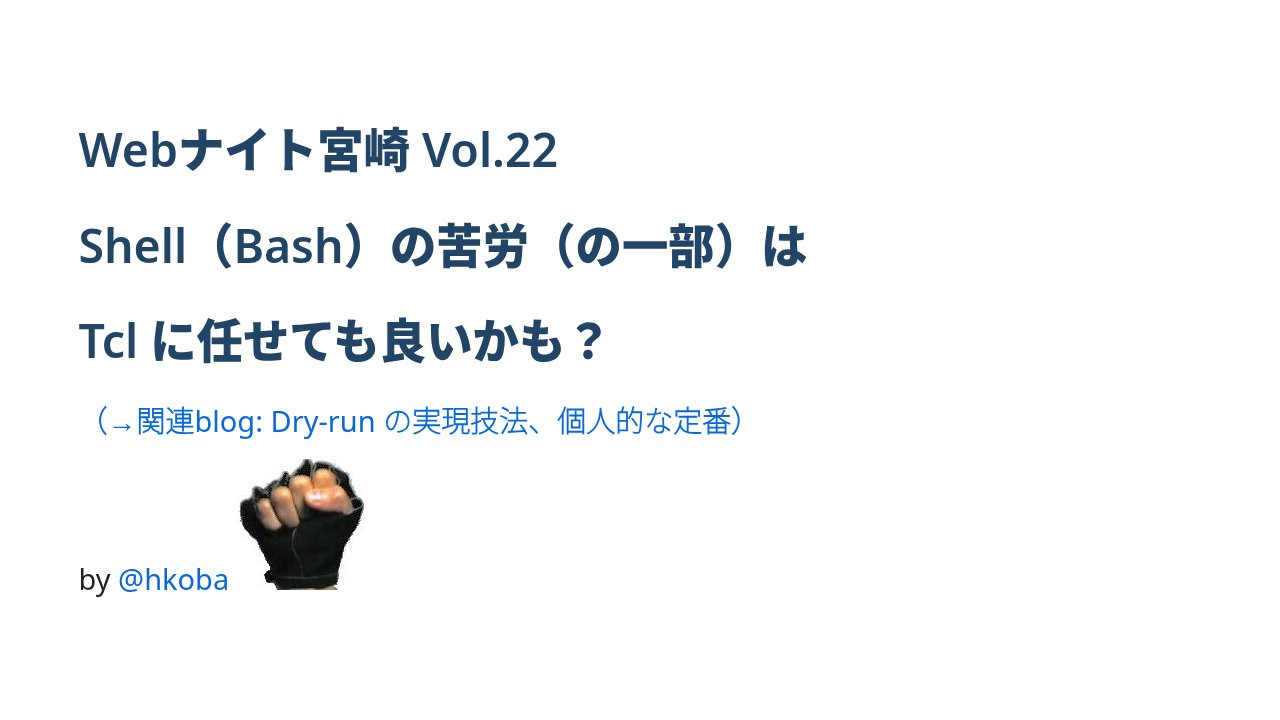
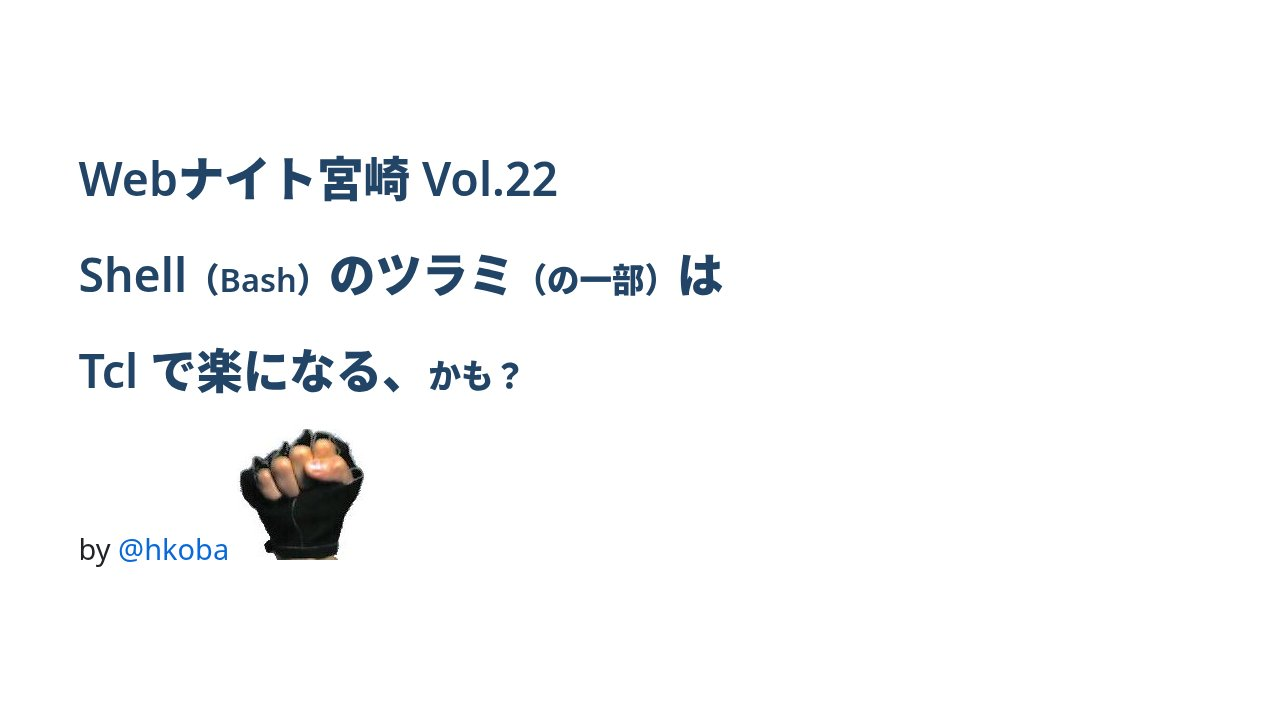
推敲

Changed region(s): [[0.0625, 0.1528, 0.625, 0.825]]

diff --git a/slides/webnight-miyazaki22/slide.md b/slides/webnight-miyazaki22/slide.md
@@ -3,48 +3,73 @@ marp: true
 theme: beamer
 image: https://hkoba.github.io/slides/webnight-miyazaki22/slide.jpg
 ---
+<style>
+    small {font-size: 70%;}
+</style>
+
 
 # Webナイト宮崎 Vol.22
 
-# Shell（Bash）の苦労（の一部）は 
-# Tcl に任せても良いかも？
-[（→関連blog: Dry-run の実現技法、個人的な定番）](https://hkoba.hatenablog.com/entry/2025/02/08/125644)
+# Shell<small>（Bash）</small>のツラミ<small>（の一部）</small>は
+# Tcl で楽になる、<small>かも？</small>
+
 
 by [@hkoba](https://github.com/hkoba/) ![](img/myfistrect.jpg)
 
 ---
-# 皆さんに質問
 
-# Bash でどこまで書くか、悩みませんか？ ↓
+# 自己紹介
 
-- 社内ツールの導入手順（git clone 後の setup.sh みたいなやつ）
+- [@hkoba](https://github.com/hkoba/)（えちこば） ![](img/myfistrect.jpg)
+
+- 2023半ば、宮崎移住
+
+- **昨年のWebナイト宮崎 Vol.21**：
+
+![bg right h:400px](img/webnight-miyazaki21.jpg)
+
+* 主な言語：[Perl](https://metacpan.org/author/HKOBA)
+
+  * 今日は Shell と Tcl の話
+
+
+---
+# 皆さんへの問いかけ(1/2)どこまで、Shell で書く？
+
+単なる、<u>外部コマンド</u>の呼び出し、<u>ファイル操作</u>の羅列
+
+* 例：**社内ツールの導入手順**（git clone 後の setup.sh みたいなやつ）
   ```sh
   git clone ... && cd ...
   chmod g+ws var var/db
   chown nginx var var/run
   sqlite3 var/db/myapp.db3 < sql/schema.sql
   ```
-- CI/CD の中のアクション
+* 他にも：CI/CD の中のアクションとか
 
-- クラウドだけど、一台しか立てないやつ（terraform？ AI が書くから気にしない？）
+* Python とかで書き直すのは大げさに感じる規模のもの
+  - （AIが書くから気にしない？）
 
-* Python/Ruby/Node,Deno... で書き直すのはやりすぎ感有るもの（AIが（略）？）
 
 ---
 
-# 皆さんに質問
+# 皆さんへの問いかけ(2/2)
 
 # Shell(Bash) で苦しんだこと、無いですか？
 
+```sh
+fileList=*.o
+
+rm -f $fileListt;  # ←変数名間違い！
+
+...                # なのに停止せず、実行が続いてしまう！
+```
+
 - 変数名を打ち間違ってもエラーにならない
 
-- エラーが起きても止まらない、残りの行が実行される
+- エラーが起きても止まらない、以降の行も実行され続けてしまう
 
 - ファイルのパス名とかにスペースが入る時に、書き方に注意が必要
-
-* **Tcl なら**
-  - エラーは例外処理に（catch 箇所まで脱出）
-  - 値にスペースが入っても、勝手に分割されない
 
 ---
 # Tcl ってどんな言語？
@@ -54,33 +79,31 @@ by [@hkoba](https://github.com/hkoba/) ![](img/myfistrect.jpg)
   # 変数代入
   set pattern *.o
   
-  #            ↓[...] で部分式の呼び出し（コマンド置換）
+  #            ↓[...] はコマンド置換（＝呼び出して、値をそこに返す）
   set fileList [glob -nocomplain $pattern]
 
-  # exec で外部コマンド呼び出し
+  # exec で外部コマンド呼び出し（可変長引数）
   exec rm -f {*}$fileList
   ```
-  * 文字列に `"..."` 不要
-  * 引数列に `,` 不要
+  * 文字列に `"..."` 不要、引数の区切りに `,` 不要<small>（Shell に近い書き味）</small>
+  * 変数名・コマンド名の間違いは即エラーで脱出、例外処理へ
   * リストを展開したい箇所は `{*}` で明示
-
-* Shell 向けのコマンド例が<small>（ある程度）</small>流用できる
 
 
 ---
 # (個人的) Tcl の最推しポイント
 
-# コマンド行（List）を操作する体系の上に作られた言語
+## <u>コマンド行のようなデータ構造（List）</u>の上に作られた言語
 
 ```tcl
 foo bar baz; # コマンド foo に引数 bar baz を渡す
 
-set cmd [list foo bar baz]; # 上記と同じことを表す list を変数 cmd に入れる
+set cmd [list foo bar baz]; # 上記の処理を表す list を変数 cmd に入れる
 
 {*}$cmd; # 変数に入ったコマンドを実行
 ```
 
-- 文字列を中心に作り直された lisp 、感（弱点も多いけど…）
+- コマンド文字列のために再設計された Lisp 、みたいな…（弱点も多いけど…）
 
 * → `Dry-Run` や`べき等`、`undo` の仕組みを被せやすい
 
@@ -92,7 +115,7 @@ set cmd [list foo bar baz]; # 上記と同じことを表す list を変数 cmd 
 ---
 # Dry-Run - Shell と Tcl を比較
 
-# Shellの場合<small>（ここだけ `Zsh` です）</small> 
+# Shellの場合の実装例<small>（ここだけ `Zsh` です）</small> 
 
 任意のコマンドを dry-run 対応にする shell 関数の例
 ```sh
@@ -124,7 +147,7 @@ x echo foobar > foo.txt
 x find -size +10M | xargs rm -f
 ```
 
-**Shell の組み込み構文** なので、関数の引数にならない
+`>` `|` は **Shell の組み込み構文** → 関数の外側で動いてしまう
 
 ---
 # Tcl ではリダイレクト・パイプは exec が解釈する
@@ -140,7 +163,7 @@ exec find -size +10M | xargs rm -f
 exec コマンドが **単なる引数** 文字列として `>` や `|` を受け取り、それを解釈して実行
 
 ---
-# Tcl で Dry-Run の例
+# Tcl版： Dry-Run の実装例
 ```tcl
 package require cmdline
 array set ::opts [cmdline::getoptions ::argv {
@@ -163,7 +186,7 @@ proc RUN args {
 ---
 # Tcl版の使用例
 
-exec を RUN に変えるだけで Dry-Run 化出来る
+exec を RUN に変えるだけ: **リダイレクト**と**パイプ** も OK
 
 ```tcl
 RUN echo foobar > foo.txt
@@ -181,9 +204,9 @@ RUN rm {*}$fileListtt;  # ERROR! ここで止まる
 
 ---
 
-# お断り：Tcl も不満な点は沢山
+# お断り：Tcl にも弱点・不満は沢山〜
 
-- 変数が<small>（手続き毎にスコープが隔離されるにも関わらず）</small>動的スコープ
+- 動的スコープなのに厳格 ← Shell慣れした人がつまずく
 
 - 静的検査が無い（実行するまで typo すら見つからない）
 
@@ -198,13 +221,24 @@ RUN rm {*}$fileListtt;  # ERROR! ここで止まる
 * **全て**を任せる言語じゃない、けど、**雑用**言語としては有益
 
 ---
-# まとめ
+# まとめ（伝えたいこと）
 
-## Bash 全部の置き換えは無理（インストールが要るもんね）
+- コマンド行に対するメタプログラミングが出来る shell風言語？！
 
-- けど、**仕方なく bash を使っている箇所** の何割かは、置き換えても良いかも？
+- もちろん Bash **全部**の置き換えは**無理**
 
-- メタプログラミングに強い shell と考えると良いかも？
+  - インストールが要るから
+
+- けど **仕方なく bash を使っている箇所** の何割かは、置き換えても良いかも？
+
+
+
+
+
+---
+# 関連blog
+
+- [Dry-run の実現技法、個人的な定番](https://hkoba.hatenablog.com/entry/2025/02/08/125644)
 
 ---
 # Bash と Tcl の比較(1/2)